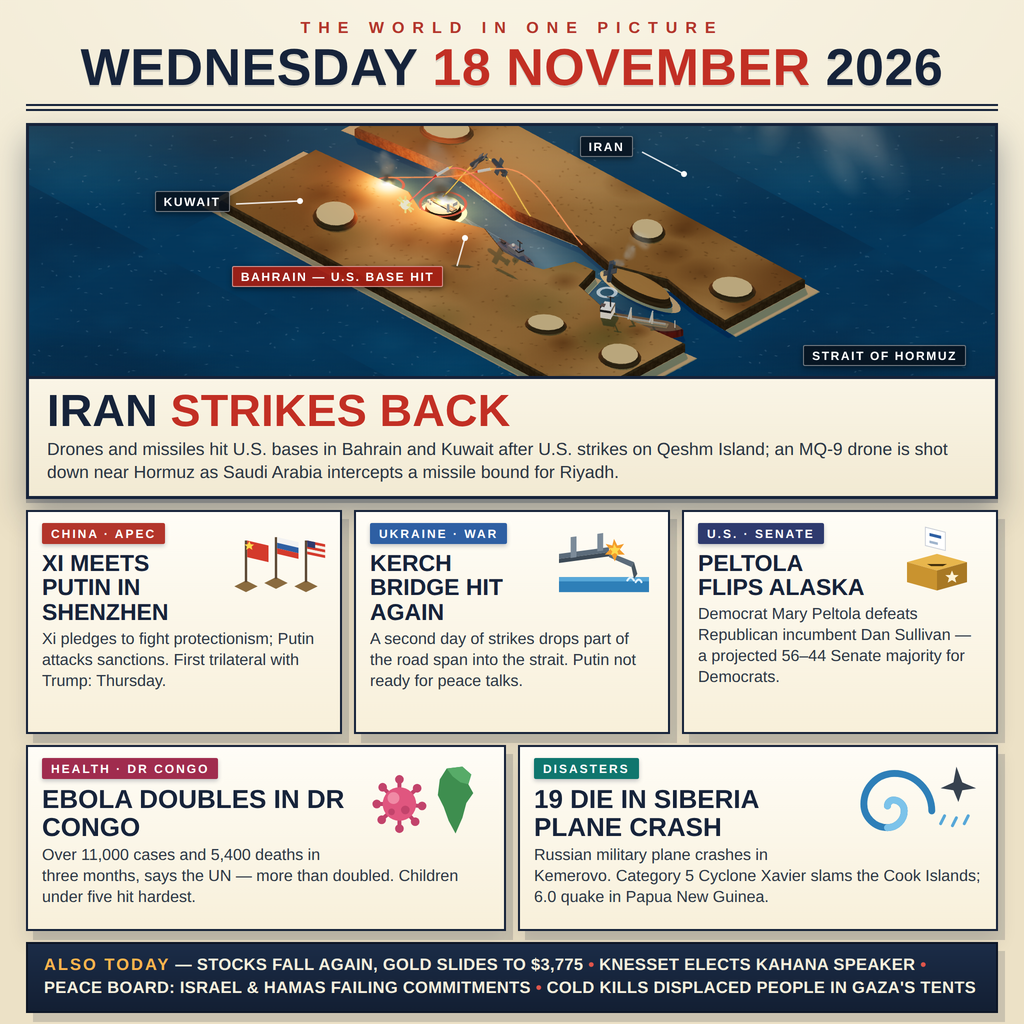
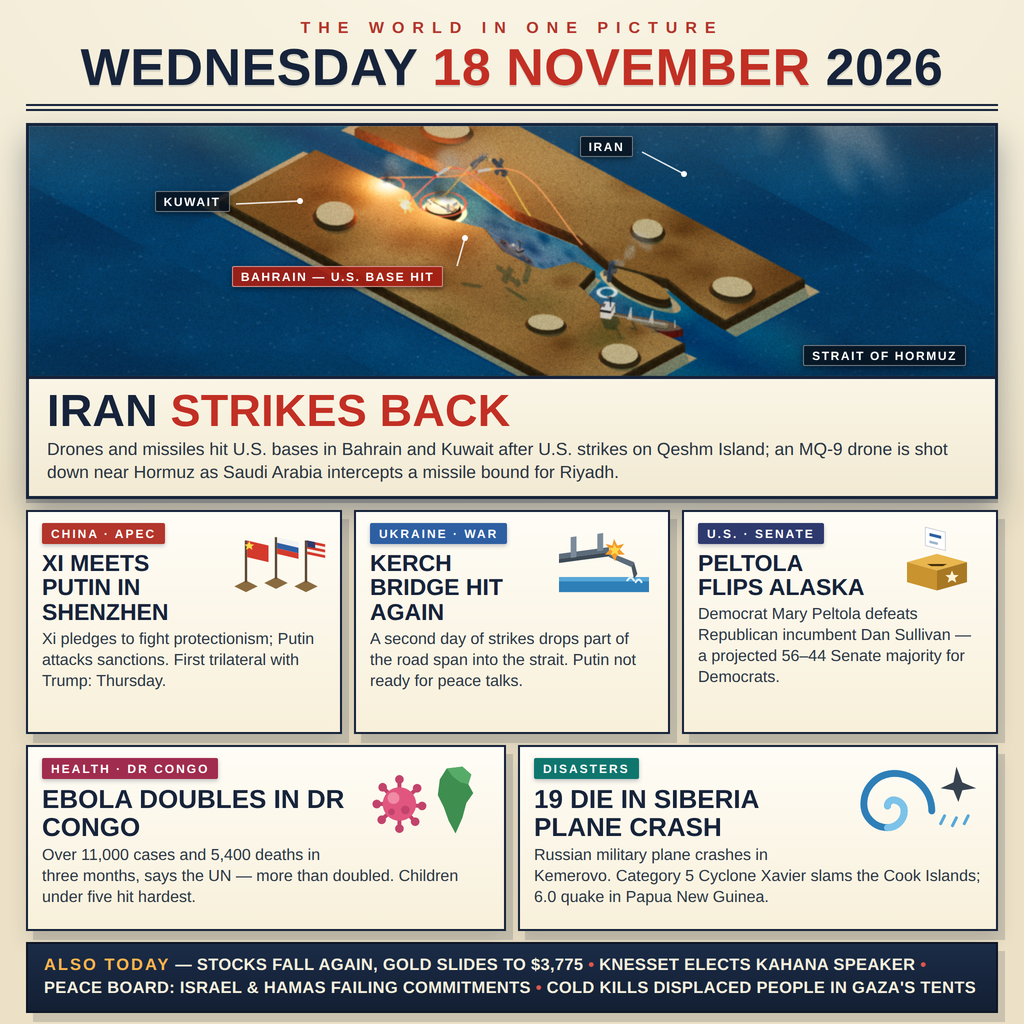
Authenticity pass: sensor grain, broken glint, sheared smoke, real water colour
- Seeded sensor-grain tile over the hero only (overlay blend); the
  typeset poster stays clean print. Slight lens softness on the
  canvas and a deeper vignette.
- Water normals rebuilt from tileable value noise: organic chop
  breaks the sun glint into sparkle; the additive glint sheen is
  punched with sparkle holes and dimmed.
- World-space water colour: turquoise shallows along both shores
  and around Bahrain/Qeshm, deep blue down the channel.
- Atmospheric perspective: cooler, nearer haze — far shore melts,
  near shore stays warm. Sun lowered for longer golden-hour shadows.
- Explosion smoke now sheers with the altitude wind (+x/-z, matching
  the MQ-9 trail): five layers thinning, stretching and cooling as
  they climb; wreck smoke stretched the same way.
- Wake churn brighter at the stern; explicit render ordering for the
  transparent water layers.

entry.png: 1024x1024, 809,447 bytes, deterministic (three renders
and two main.ts runs byte-identical, sha256 94e83282...). All text,
facts, badges, LICENSE, About and main.ts untouched.

diff --git a/poster.html b/poster.html
@@ -42,12 +42,17 @@
     position: relative; height: 250px; overflow: hidden;
     background: linear-gradient(180deg, #7e97a9 0%, #d9b98c 52%, #2c4a5e 100%);
   }
-  .hero-art canvas { position: absolute; inset: 0; width: 100%; height: 100%; display: block; }
+  .hero-art canvas { position: absolute; inset: 0; width: 100%; height: 100%; display: block;
+    filter: blur(0.5px) saturate(1.04) contrast(1.01); }
+  .hero-art .grain {
+    position: absolute; inset: 0; z-index: 1; pointer-events: none;
+    opacity: .38; mix-blend-mode: overlay; background-repeat: repeat;
+  }
   .hero-art .grade {
     position: absolute; inset: 0; z-index: 1; pointer-events: none;
     background:
       linear-gradient(180deg, rgba(255,176,102,.10) 0%, rgba(255,176,102,0) 34%),
-      radial-gradient(125% 95% at 50% 42%, rgba(0,0,0,0) 56%, rgba(10,16,24,.30) 100%);
+      radial-gradient(125% 95% at 50% 42%, rgba(0,0,0,0) 54%, rgba(10,16,24,.36) 100%);
   }
   .hero-art svg.leaders { position: absolute; inset: 0; width: 100%; height: 100%; z-index: 2; }
   .chip {
@@ -122,6 +127,7 @@
   <section class="hero">
     <div class="hero-art" id="heroArt">
       <canvas id="gl"></canvas>
+      <div class="grain" id="grain"></div>
       <div class="grade"></div>
       <svg class="leaders" viewBox="0 0 966 250" preserveAspectRatio="none" aria-hidden="true">
         <g stroke="#ffffff" stroke-width="1.5" opacity="0.85">
@@ -362,8 +368,9 @@ function init() {
     skyTex.colorSpace = THREE.SRGBColorSpace;
     scene.background = skyTex;
   }
-  /* warm haze: distant shores melt into the horizon light */
-  scene.fog = new THREE.Fog(0xd9b48e, 55, 115);
+  /* atmospheric perspective: a cooler, nearer haze, so the far shore
+     melts toward the horizon light while the near shore stays warm */
+  scene.fog = new THREE.Fog(0xc6bba6, 34, 100);
 
   /* image-based ambience: a tiny equirect of the same sky, PMREM-blurred,
      so water and hull paint pick up believable sky reflections */
@@ -400,7 +407,7 @@ function init() {
      cool sky fill from the camera side, long golden-hour shadows */
   scene.add(new THREE.HemisphereLight(0x9db8cc, 0x4a4238, 1.1));
   const sun = new THREE.DirectionalLight(0xffb36b, 1.25);
-  sun.position.set(-16, 12, -10);
+  sun.position.set(-18, 9.5, -11);
   sun.castShadow = true;
   sun.shadow.mapSize.set(2048, 2048);
   sun.shadow.camera.left = -20; sun.shadow.camera.right = 20;
@@ -412,6 +419,24 @@ function init() {
   const fill = new THREE.DirectionalLight(0x7d94b0, 0.4);
   fill.position.set(14, 9, 16);
   scene.add(fill);
+
+  /* sensor grain over the hero only: a seeded mid-grey noise tile in
+     overlay blend, so the render carries the fine texture of a real
+     camera sensor while the typeset poster around it stays clean.
+     Seeded, so every render is byte-identical. */
+  {
+    const gc = document.createElement('canvas'); gc.width = gc.height = 256;
+    const gg = gc.getContext('2d');
+    const img = gg.createImageData(256, 256);
+    const grng = mulberry32(112358);
+    for (let i = 0; i < img.data.length; i += 4) {
+      const v = 116 + Math.floor(grng() * 80);
+      img.data[i] = img.data[i + 1] = img.data[i + 2] = v;
+      img.data[i + 3] = 255;
+    }
+    gg.putImageData(img, 0, 0);
+    document.getElementById('grain').style.backgroundImage = `url(${gc.toDataURL()})`;
+  }
 
   /* soft radial glow texture for fire / explosion sprites */
   function glowTexture(inner, outer) {
@@ -491,18 +516,35 @@ function init() {
   waterTex.wrapS = waterTex.wrapT = THREE.RepeatWrapping;
   waterTex.repeat.set(3, 3);
 
-  /* normal map from an analytic wave heightfield (tileable sines) */
+  /* normal map from a tileable value-noise heightfield: organic chop
+     (analytic sines read as a repeating pattern) that shatters the
+     sun's reflection into broken sparkle instead of a smooth sheen */
+  function hash2(ix, iy, seed) {
+    let h = (Math.imul(ix, 374761393) + Math.imul(iy, 668265263) + Math.imul(seed, 974634211)) | 0;
+    h = Math.imul(h ^ (h >>> 13), 1274126177);
+    return ((h ^ (h >>> 16)) >>> 0) / 4294967296;
+  }
+  function vnoise(u, v, period, seed) {
+    const x = u * period, y = v * period;
+    const ix = Math.floor(x), iy = Math.floor(y);
+    const fx = x - ix, fy = y - iy;
+    const sx = fx * fx * (3 - 2 * fx), sy = fy * fy * (3 - 2 * fy);
+    const w = (a, b) => hash2(((a % period) + period) % period, ((b % period) + period) % period, seed);
+    const top = w(ix, iy) + (w(ix + 1, iy) - w(ix, iy)) * sx;
+    const bot = w(ix, iy + 1) + (w(ix + 1, iy + 1) - w(ix, iy + 1)) * sx;
+    return top + (bot - top) * sy;
+  }
   function waveHeight(u, v) {
-    return Math.sin(u * 31.0 + Math.sin(v * 19.0) * 1.7) * 0.5
-         + Math.sin(v * 43.0 + Math.sin(u * 14.0) * 1.3) * 0.32
-         + Math.sin((u + v) * 67.0) * 0.18
-         + Math.sin((u * 53.0 - v * 29.0) + Math.sin(u * 23.0) * 1.1) * 0.12;
+    return vnoise(u, v, 6, 11) * 0.55
+         + vnoise(u, v, 13, 23) * 0.30
+         + vnoise(u, v, 27, 37) * 0.15
+         + Math.sin((u * 4.0 + v * 10.0) * Math.PI * 2) * 0.05;
   }
   const nc = document.createElement('canvas'); nc.width = nc.height = 256;
   {
     const g2 = nc.getContext('2d');
     const img = g2.createImageData(256, 256);
-    const S = 0.55, E = 1 / 256;
+    const S = 0.72, E = 1 / 256;
     for (let y = 0; y < 256; y++) for (let x = 0; x < 256; x++) {
       const u = x / 256, v = y / 256;
       const dx = (waveHeight(u + E, v) - waveHeight(u - E, v)) * S;
@@ -536,23 +578,78 @@ function init() {
   const water = new THREE.Mesh(new THREE.PlaneGeometry(90, 90),
     new THREE.MeshStandardMaterial({
       map: waterTex, color: 0xffffff,
-      normalMap: waterNrm, normalScale: new THREE.Vector2(0.2, 0.2),
-      roughness: 1.0, metalness: 0.0, envMapIntensity: 0.42 }));
+      normalMap: waterNrm, normalScale: new THREE.Vector2(0.32, 0.32),
+      roughness: 1.0, metalness: 0.0, envMapIntensity: 0.5 }));
   water.rotation.x = -Math.PI / 2;
   water.position.y = 0.35;
   water.receiveShadow = true;
   scene.add(water);
 
-  /* sun glint: a soft warm sheen laid along the strait, the way a low
-     sun smears across real water in an aerial photograph */
+  /* broad water colour, painted in world coordinates: turquoise
+     shallows hugging both shores and ringing the islands, deep blue
+     down the channel — the colour geography of a real strait */
   {
-    const glintTex = glowTexture('rgba(255,190,110,0.9)', 'rgba(255,150,60,0)');
-    const glint = new THREE.Mesh(new THREE.PlaneGeometry(30, 8),
-      new THREE.MeshBasicMaterial({ map: glintTex, transparent: true, opacity: 0.34,
+    const tc = document.createElement('canvas'); tc.width = tc.height = 1024;
+    const tg = tc.getContext('2d');
+    const px = (x, z) => [(x + 24) / 48 * 1024, (z + 24) / 48 * 1024];
+    const blob = (x, z, rWorld, rgb, a) => {
+      const [cx, cy] = px(x, z);
+      const r = rWorld / 48 * 1024;
+      const gr = tg.createRadialGradient(cx, cy, 0, cx, cy, r);
+      gr.addColorStop(0, `rgba(${rgb},${a})`);
+      gr.addColorStop(1, `rgba(${rgb},0)`);
+      tg.fillStyle = gr;
+      tg.beginPath(); tg.arc(cx, cy, r, 0, 7); tg.fill();
+    };
+    for (let x = -22; x <= 22; x += 3.2) {          // the deep channel
+      blob(x, -0.6, 5.2, '8,44,86', 0.20);
+      blob(x, -3.4, 3.4, '52,158,158', 0.16);        // Iran-side shallows
+      blob(x, 2.6, 3.4, '56,164,158', 0.16);         // Arabia-side shallows
+    }
+    blob(-5.6, 0.1, 3.0, '64,178,164', 0.22);        // Bahrain shallows
+    blob(6.4, -2.0, 2.6, '64,178,164', 0.20);        // Qeshm shallows
+    blob(8.6, -2.0, 2.6, '64,178,164', 0.20);
+    blob(10.8, -2.0, 2.6, '64,178,164', 0.20);
+    const tintTex = new THREE.CanvasTexture(tc);
+    tintTex.colorSpace = THREE.SRGBColorSpace;
+    const tintGeo = new THREE.PlaneGeometry(48, 48);
+    tintGeo.rotateX(-Math.PI / 2);
+    const tint = new THREE.Mesh(tintGeo, new THREE.MeshBasicMaterial({
+      map: tintTex, transparent: true, depthWrite: false }));
+    tint.position.y = 0.362;
+    tint.renderOrder = 1;
+    scene.add(tint);
+  }
+
+  /* sun glint: a warm sheen laid along the strait, but punched full of
+     sparkle holes so the wave chop breaks it up — a real glint path
+     glitters, it does not smear */
+  {
+    const gc2 = document.createElement('canvas'); gc2.width = 256; gc2.height = 128;
+    const gg2 = gc2.getContext('2d');
+    const grd = gg2.createRadialGradient(128, 64, 4, 128, 64, 122);
+    grd.addColorStop(0, 'rgba(255,196,118,0.95)');
+    grd.addColorStop(1, 'rgba(255,150,60,0)');
+    gg2.fillStyle = grd; gg2.fillRect(0, 0, 256, 128);
+    gg2.globalCompositeOperation = 'destination-out';
+    const grng2 = mulberry32(60606);
+    for (let i = 0; i < 300; i++) {
+      const x = grng2() * 256, y = grng2() * 128, r = 1.5 + grng2() * 9;
+      const hole = gg2.createRadialGradient(x, y, 0, x, y, r);
+      hole.addColorStop(0, `rgba(0,0,0,${0.3 + grng2() * 0.5})`);
+      hole.addColorStop(1, 'rgba(0,0,0,0)');
+      gg2.fillStyle = hole;
+      gg2.beginPath(); gg2.arc(x, y, r, 0, 7); gg2.fill();
+    }
+    const glintTex = new THREE.CanvasTexture(gc2);
+    glintTex.colorSpace = THREE.SRGBColorSpace;
+    const glint = new THREE.Mesh(new THREE.PlaneGeometry(27, 7),
+      new THREE.MeshBasicMaterial({ map: glintTex, transparent: true, opacity: 0.3,
         blending: THREE.AdditiveBlending, depthWrite: false }));
     glint.rotation.x = -Math.PI / 2;
     glint.rotation.z = -0.32;
     glint.position.set(2.0, 0.375, -0.5);
+    glint.renderOrder = 2;
     scene.add(glint);
   }
 
@@ -566,7 +663,7 @@ function init() {
       const t = rng();                                   // 0 tail → 1 stern
       const spread = 3 + Math.pow(t, 1.6) * 46;
       const y = 64 + (rng() * 2 - 1) * spread;
-      const a = 0.05 + t * 0.5 * rng();
+      const a = 0.05 + Math.pow(t, 1.5) * 0.62 * rng();
       g.fillStyle = `rgba(238,248,255,${a})`;
       g.fillRect(t * 250, y, 2 + rng() * 7, 1.4);
     }
@@ -592,6 +689,7 @@ function init() {
     m.position.copy(stern).addScaledVector(fwd, -len / 2 + 0.4);
     m.position.y = 0.385;
     m.rotation.y = ry;
+    m.renderOrder = 3;
     scene.add(m);
     return m;
   }
@@ -753,10 +851,15 @@ function init() {
     core.position.y = 0.15; grp.add(core);
     const light = new THREE.PointLight(0xff8c3a, 55, 13, 1.8);
     light.position.y = 0.7; grp.add(light);
-    [[0, 0.75, 0, 1.5, 1.15, 0x35322e, 0.82],
-     [-0.25, 1.45, -0.1, 2.1, 1.6, 0x5c574f, 0.64],
-     [-0.55, 2.2, -0.2, 2.8, 2.1, 0x8a8478, 0.46]].forEach(([px, py, pz, sx, sy, col, op], i) => {
-      const sp = smokeSprite(i === 0 ? smokeDarkTex : smokeLiteTex, col, sx, sy, op, i * 1.1);
+    /* the column sheers with the altitude wind — the same +x / -z
+       drift as the MQ-9's trail — thinning, stretching sideways and
+       cooling in colour as it climbs */
+    [[0, 0.7, 0, 1.4, 1.1, 0x2e2b27, 0.85],
+     [0.22, 1.3, -0.06, 1.9, 1.45, 0x4c4741, 0.68],
+     [0.5, 1.95, -0.12, 2.5, 1.8, 0x6e685f, 0.52],
+     [0.85, 2.6, -0.18, 3.3, 2.2, 0x8f897e, 0.38],
+     [1.3, 3.25, -0.24, 4.3, 2.6, 0xa8a294, 0.26]].forEach(([px, py, pz, sx, sy, col, op], i) => {
+      const sp = smokeSprite(i === 0 ? smokeDarkTex : smokeLiteTex, col, sx, sy, op, i * 0.9);
       sp.position.set(px, py, pz); grp.add(sp);
     });
     grp.position.set(x, y, z); grp.scale.setScalar(s);
@@ -858,8 +961,8 @@ function init() {
   wreck.rotation.set(0.9, 0.4, 0.5);
   scene.add(wreck);
   [[7.8, 2.4, -1.05, 0.85, 0.62, 0x707880, 0.55],
-   [8.3, 3.2, -1.45, 1.15, 0.85, 0x8b959c, 0.45],
-   [8.85, 4.1, -1.85, 1.5, 1.1, 0xa8b2b8, 0.34]].forEach(([x, y, z, sx, sy, col, op], i) => {
+   [8.3, 3.2, -1.45, 1.2, 0.85, 0x8b959c, 0.42],
+   [8.9, 4.1, -1.85, 1.95, 1.15, 0xa8b2b8, 0.30]].forEach(([x, y, z, sx, sy, col, op], i) => {
     const s = smokeSprite(smokeLiteTex, col, sx, sy, op, i * 1.3);
     s.position.set(x, y, z); scene.add(s);
   });
